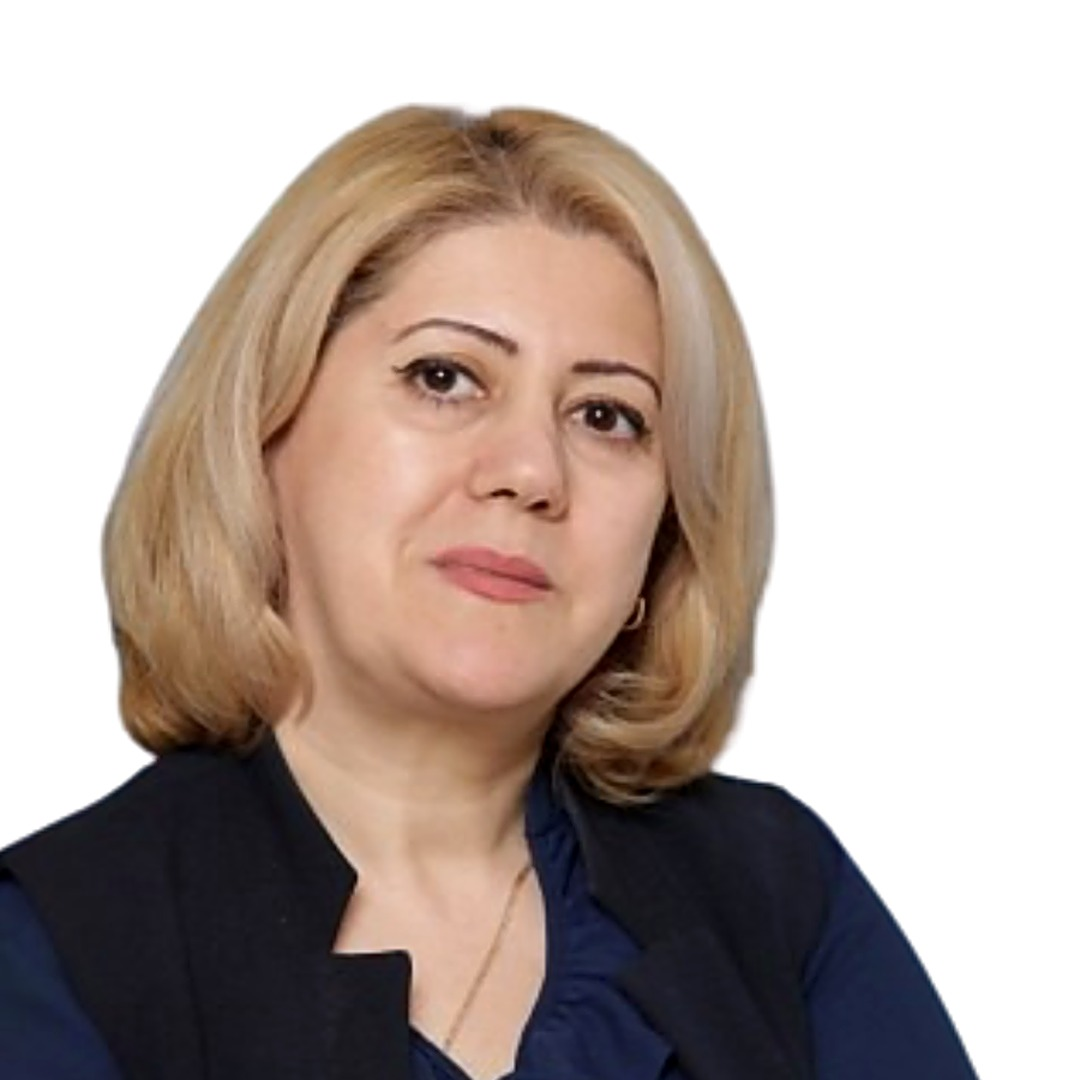
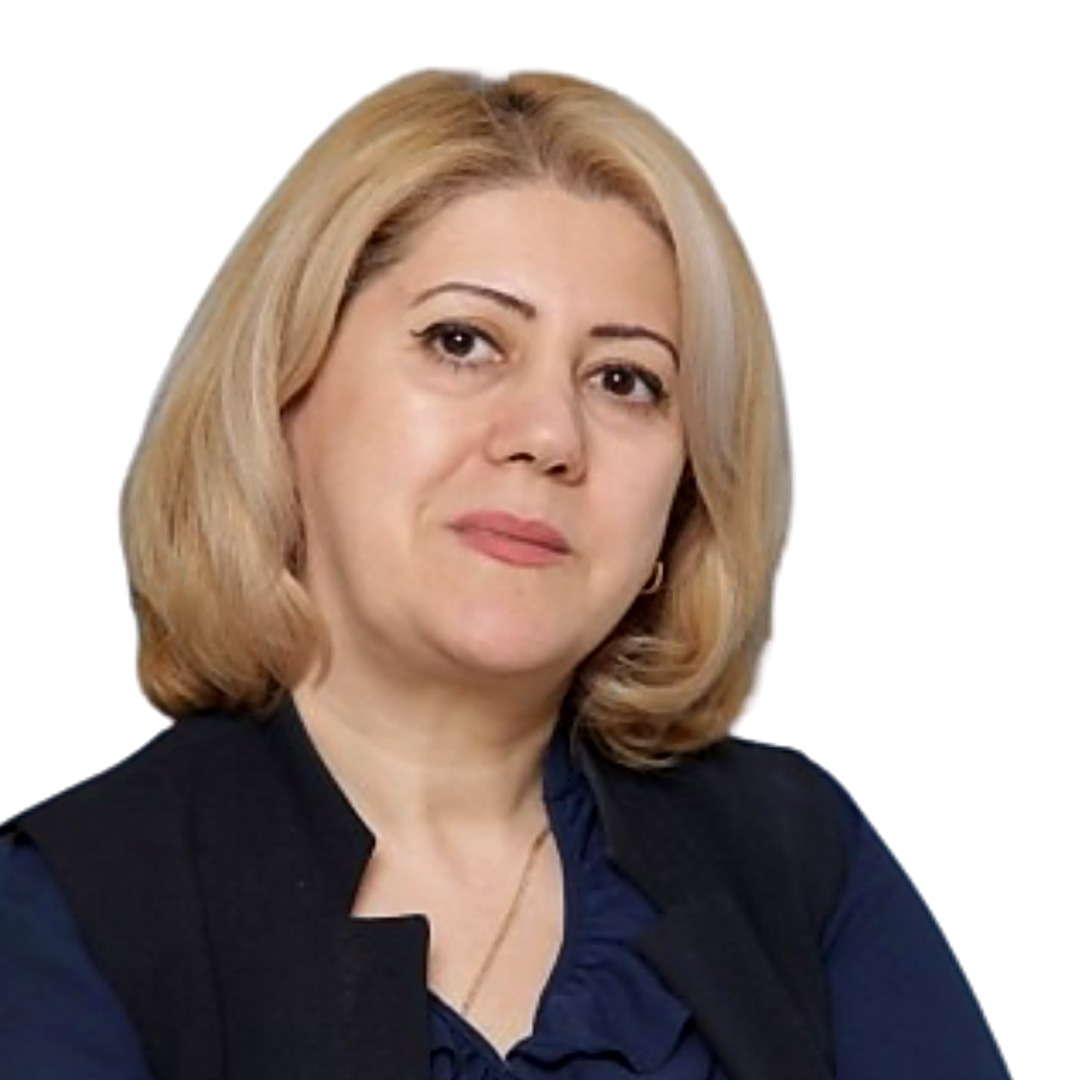
Put Anna Shakhkulyan back before Naira Nikogosian; center and raise Naira's photo
Claude-Session: https://claude.ai/code/session_01UY2yYSyHezMTLTrkPybDFD

diff --git a/team.html b/team.html
@@ -252,16 +252,16 @@
           <a class="more" href="adlea-specialist-bios.html#arpi-asatryan">Learn more &#8594;</a>
         </div>
         <div class="team-card">
-          <div class="team-photo"><img src="assets/naira-nikogosian.jpg" alt="Naira Nikogosian"></div>
-          <h3>Naira Nikogosian</h3>
-          <p class="role">Armenian Language and Culture Specialist</p>
-          <a class="more" href="adlea-specialist-bios.html#naira-nikogosian">Learn more &#8594;</a>
-        </div>
-        <div class="team-card">
           <div class="team-photo"><img src="assets/anna-shakhkulyan.jpg?v=2" alt="Anna Shakhkulyan"></div>
           <h3>Anna Shakhkulyan</h3>
           <p class="role">Armenian Language and Culture Specialist</p>
           <a class="more" href="adlea-specialist-bios.html#anna-shakhkulyan">Learn more &#8594;</a>
+        </div>
+        <div class="team-card">
+          <div class="team-photo"><img src="assets/naira-nikogosian.jpg?v=2" alt="Naira Nikogosian"></div>
+          <h3>Naira Nikogosian</h3>
+          <p class="role">Armenian Language and Culture Specialist</p>
+          <a class="more" href="adlea-specialist-bios.html#naira-nikogosian">Learn more &#8594;</a>
         </div>
       </div>
     </div>

diff --git a/adlea-specialist-bios.html b/adlea-specialist-bios.html
@@ -120,8 +120,8 @@
         <a href="#hasmik-muradyan">Hasmik Muradyan</a>
         <a href="#lilit-aleksanyan">Lilit Aleksanyan</a>
         <a href="#arpi-asatryan">Arpi Asatryan</a>
-        <a href="#naira-nikogosian">Naira Nikogosian</a>
         <a href="#anna-shakhkulyan">Anna Shakhkulyan</a>
+        <a href="#naira-nikogosian">Naira Nikogosian</a>
       </div>
     </div>
   </section>
@@ -294,7 +294,7 @@
       </div>
 
       <div id="naira-nikogosian" class="bio-section">
-        <div class="bio-photo"><img src="assets/naira-nikogosian.jpg" alt="Naira Nikogosian"></div>
+        <div class="bio-photo"><img src="assets/naira-nikogosian.jpg?v=2" alt="Naira Nikogosian"></div>
         <div class="bio-text">
           <span class="eyebrow">Specialist Team</span>
           <h2>Naira Nikogosian</h2>
